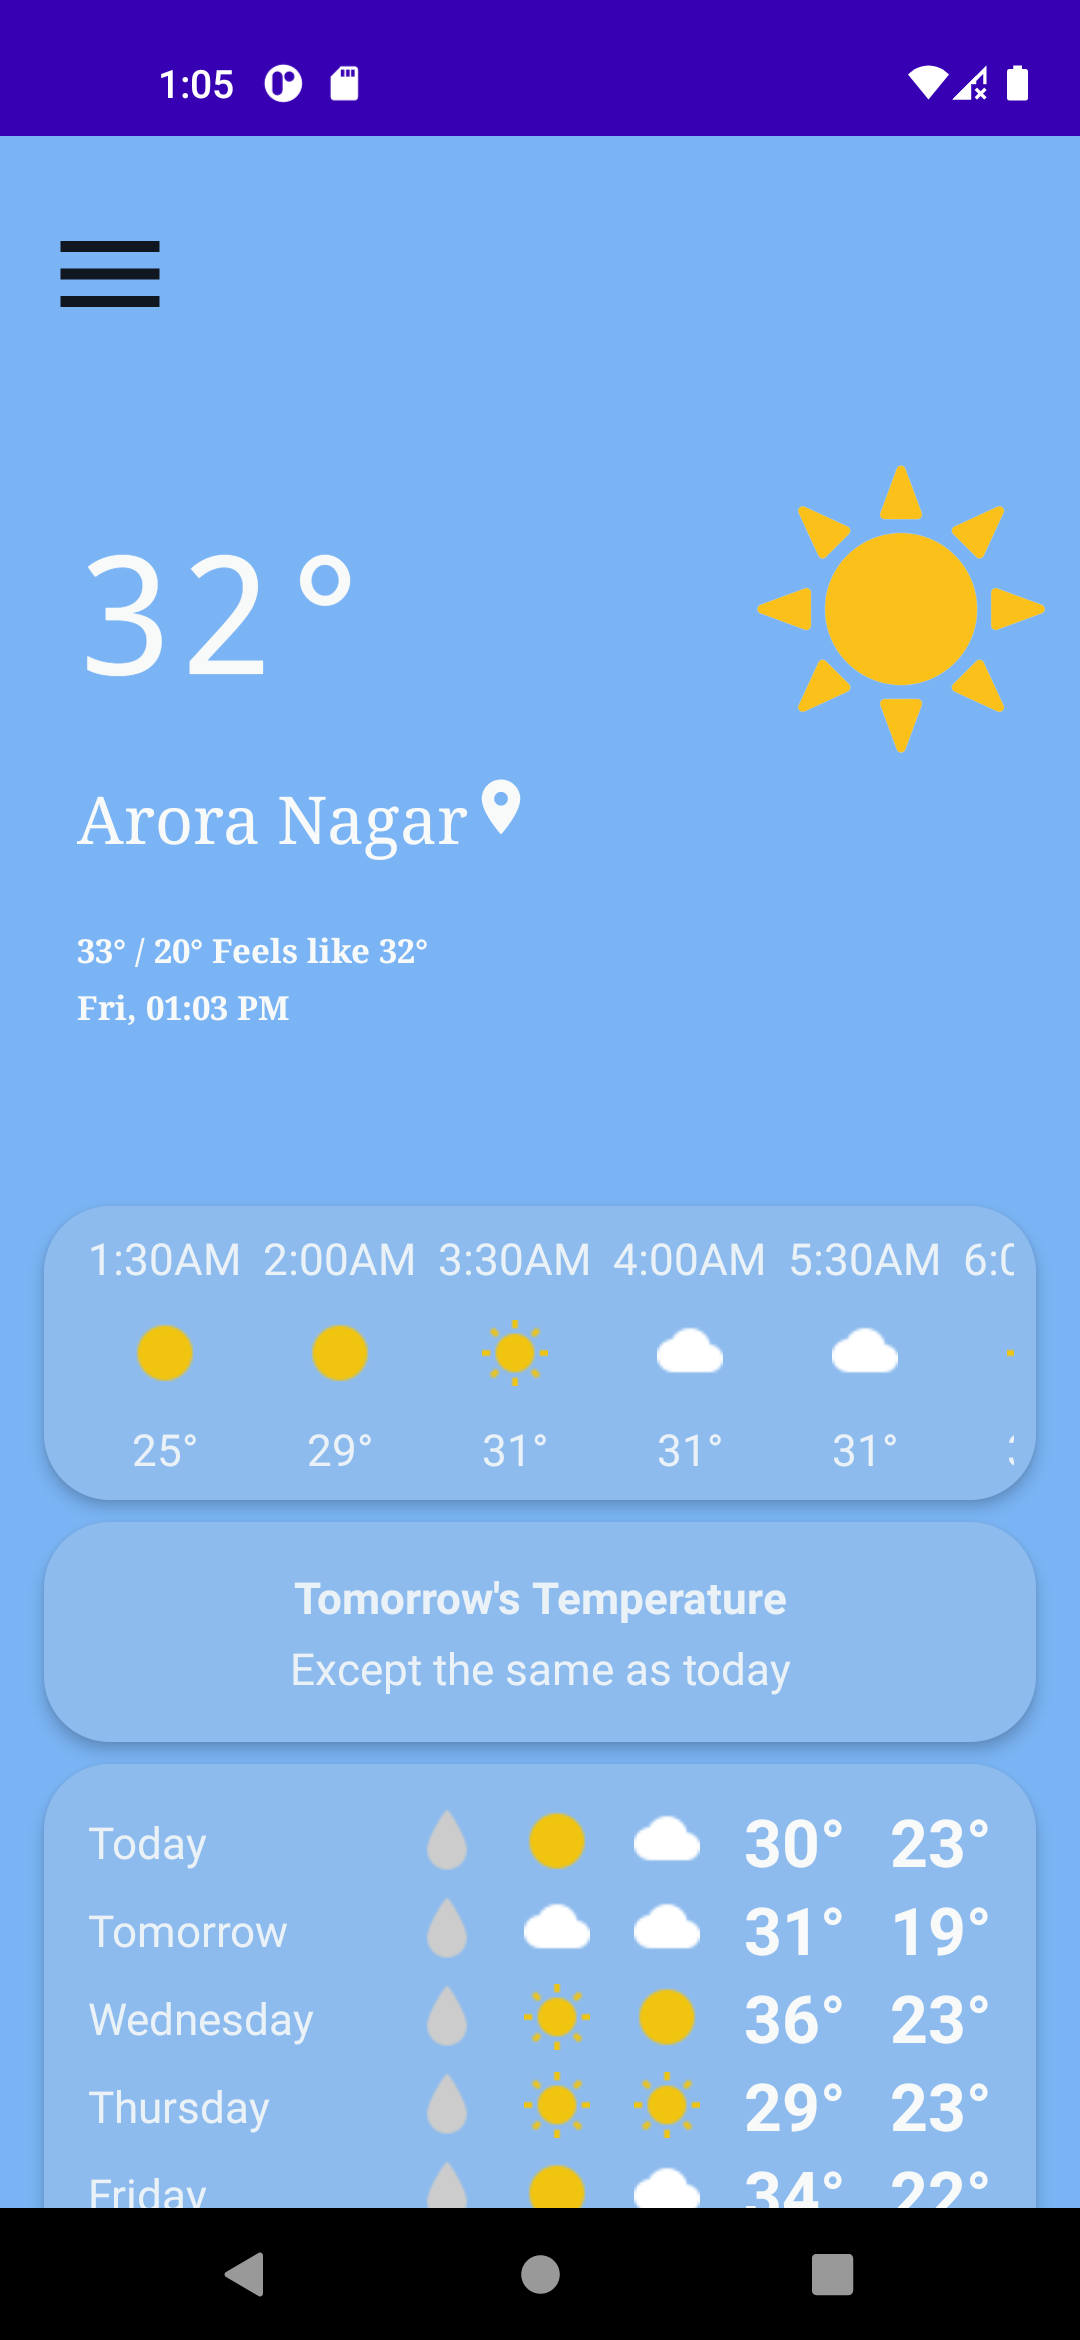
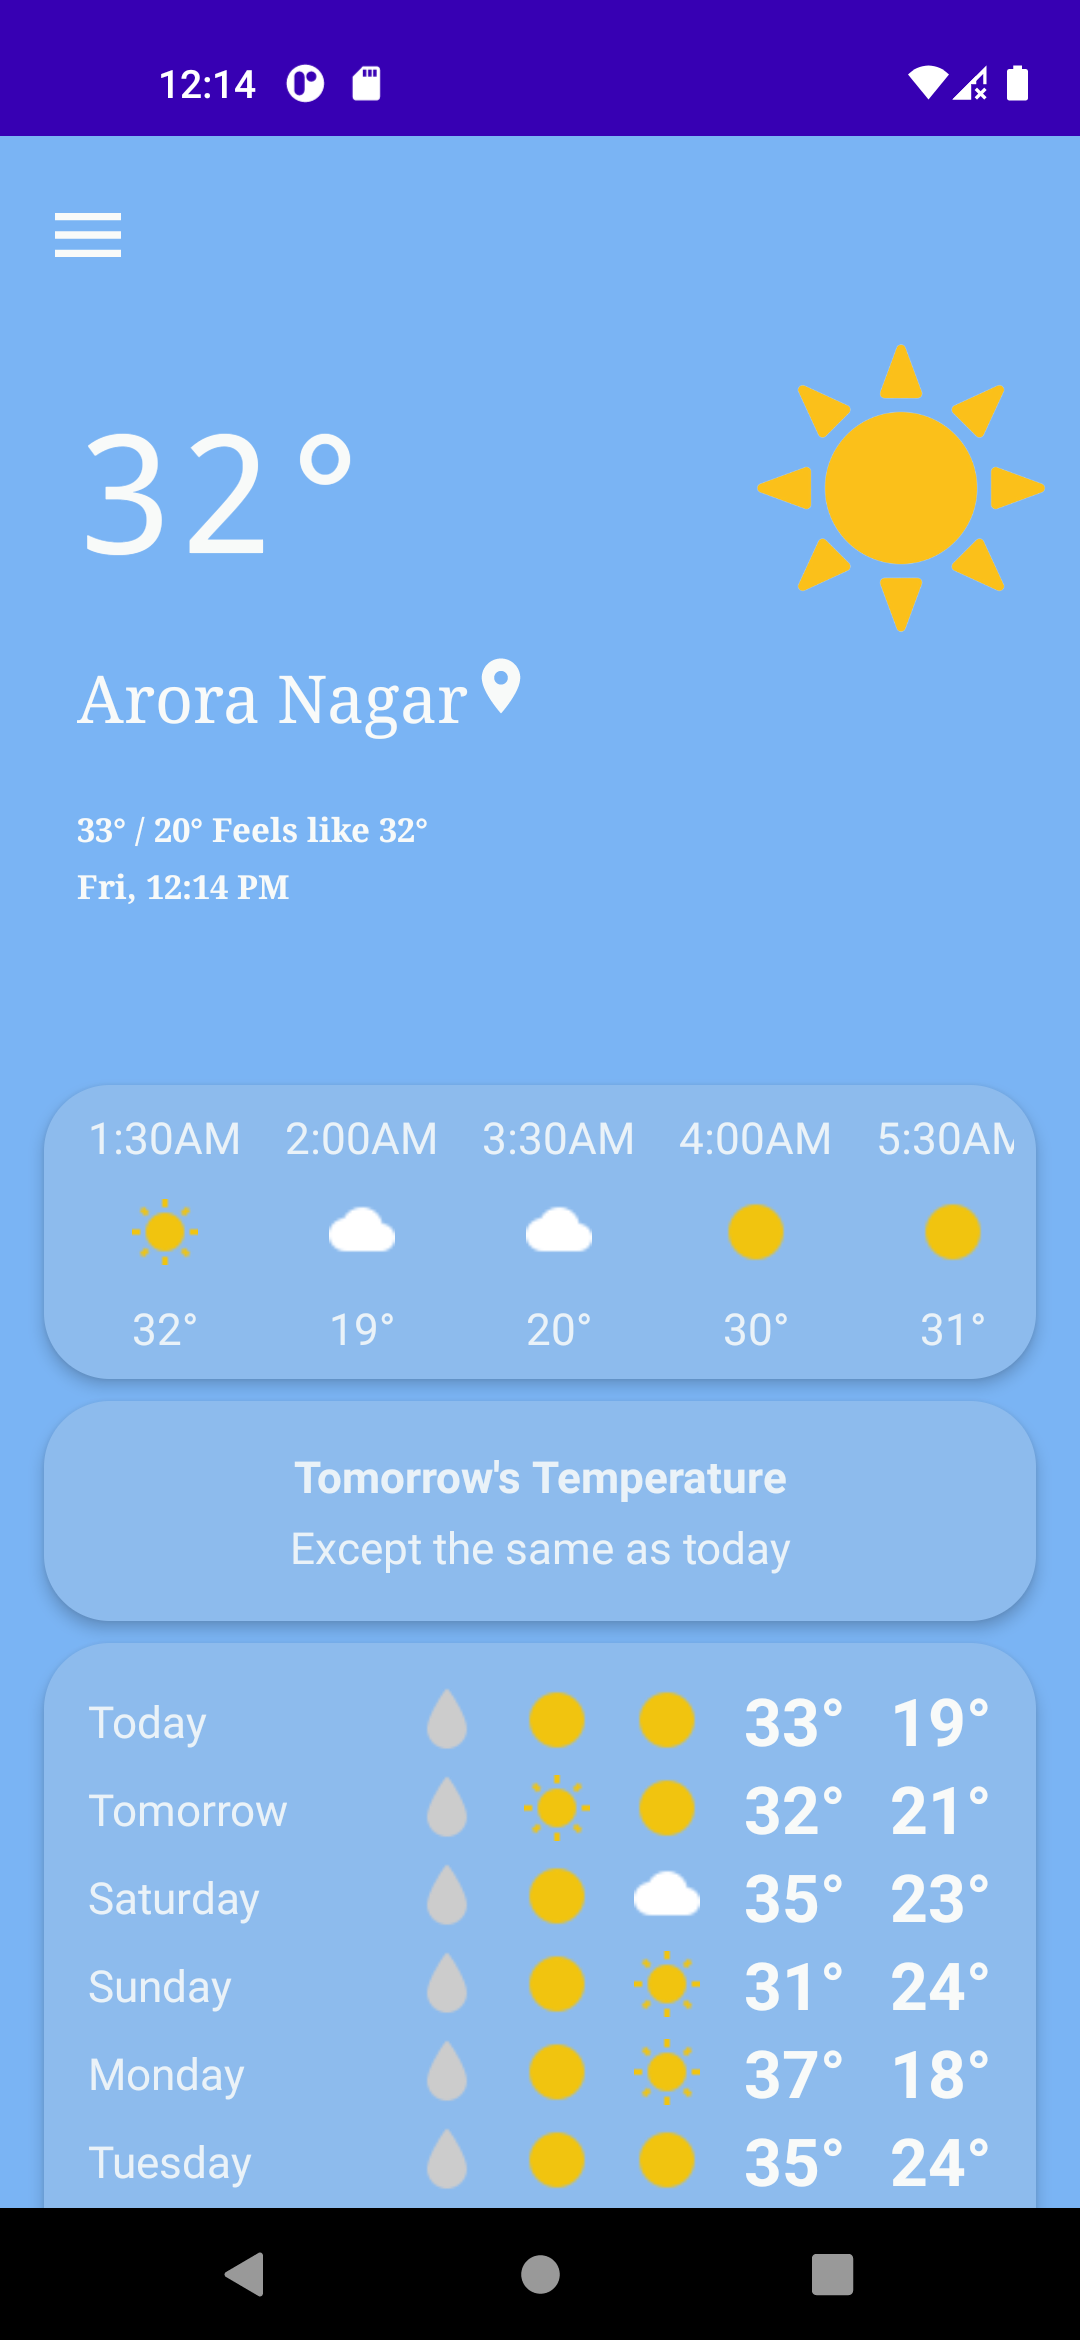
#updated readme file

diff --git a/app/src/main/java/com/chaitupenju/weatherui/MainActivity.kt b/app/src/main/java/com/chaitupenju/weatherui/MainActivity.kt
@@ -61,7 +61,7 @@ fun WeatherUI(locationName: String) {
 
     Column(
         modifier = Modifier
-            .fillMaxWidth()
+            .fillMaxSize()
             .verticalScroll(state = rememberScrollState())
     ) {
         // Icon Content
@@ -71,14 +71,16 @@ fun WeatherUI(locationName: String) {
                 .padding(horizontal = 16.dp)
         ) {
             Icon(
-                Icons.Default.Menu, contentDescription = "Menu",
+                Icons.Default.Menu,
+                contentDescription = "Menu",
+                tint = TextWhite,
                 modifier = Modifier
                     .padding(top = 20.dp)
-                    .size(48.dp, 60.dp)
+                    .size(32.dp)
             )
         }
 
-        Spacer(modifier = Modifier.padding(16.dp))
+        Spacer(modifier = Modifier.height(16.dp))
 
         // Weather Information content
         Row(

diff --git a/README.md b/README.md
@@ -1,12 +1,15 @@
 # WeatherUI-Compose
 A simple sample compose android project with Weather UI
 
+## App Overview
+<img src="https://raw.githubusercontent.com/ChaituPenju/WeatherUI-Compose/main/screens/app_overview.gif" width=320 height=640>
+
 ## App Screens
 
 ***Screen Part 1***
 
-<img src="https://raw.githubusercontent.com/ChaituPenju/WeatherUI-Compose/main/screens/screen_part_1.png" width=420 height=640>
+<img src="https://raw.githubusercontent.com/ChaituPenju/WeatherUI-Compose/main/screens/screen_part_1.png" width=320 height=640>
 
 ***Screen Part 2***
 
-<img src="https://raw.githubusercontent.com/ChaituPenju/WeatherUI-Compose/main/screens/screen_part_2.png" width=420 height=640>
+<img src="https://raw.githubusercontent.com/ChaituPenju/WeatherUI-Compose/main/screens/screen_part_2.png" width=320 height=640>
